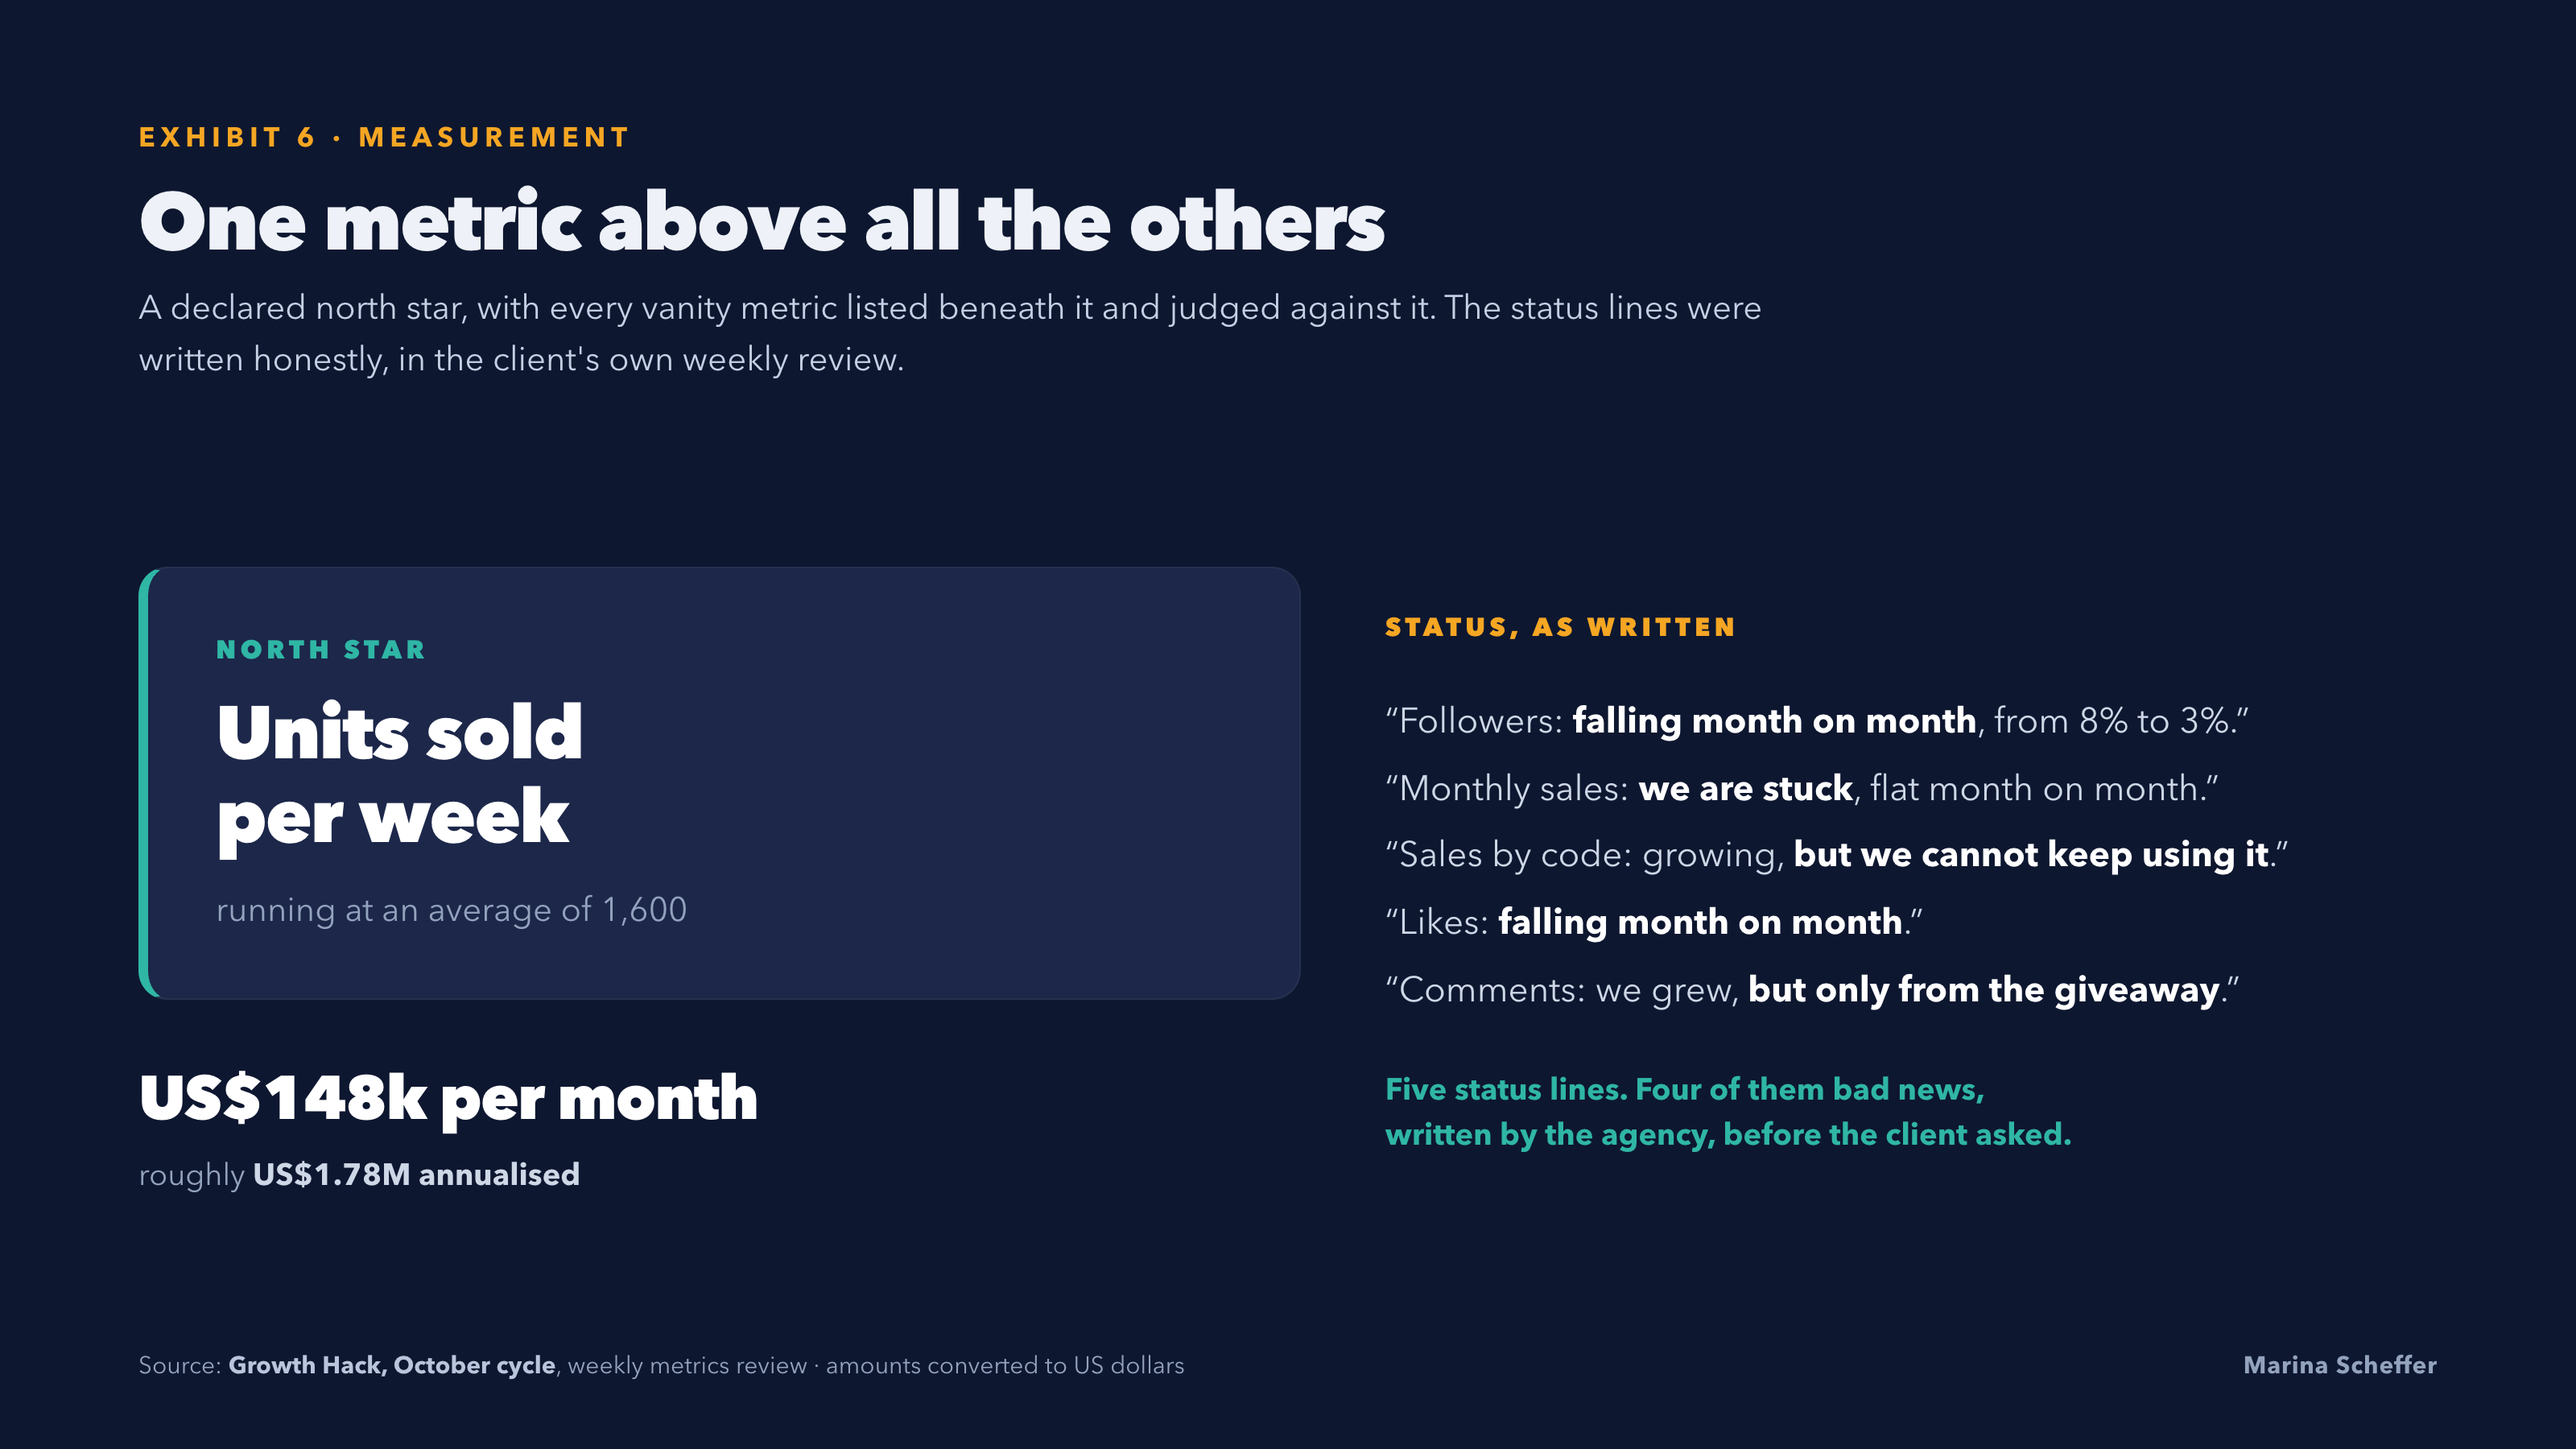
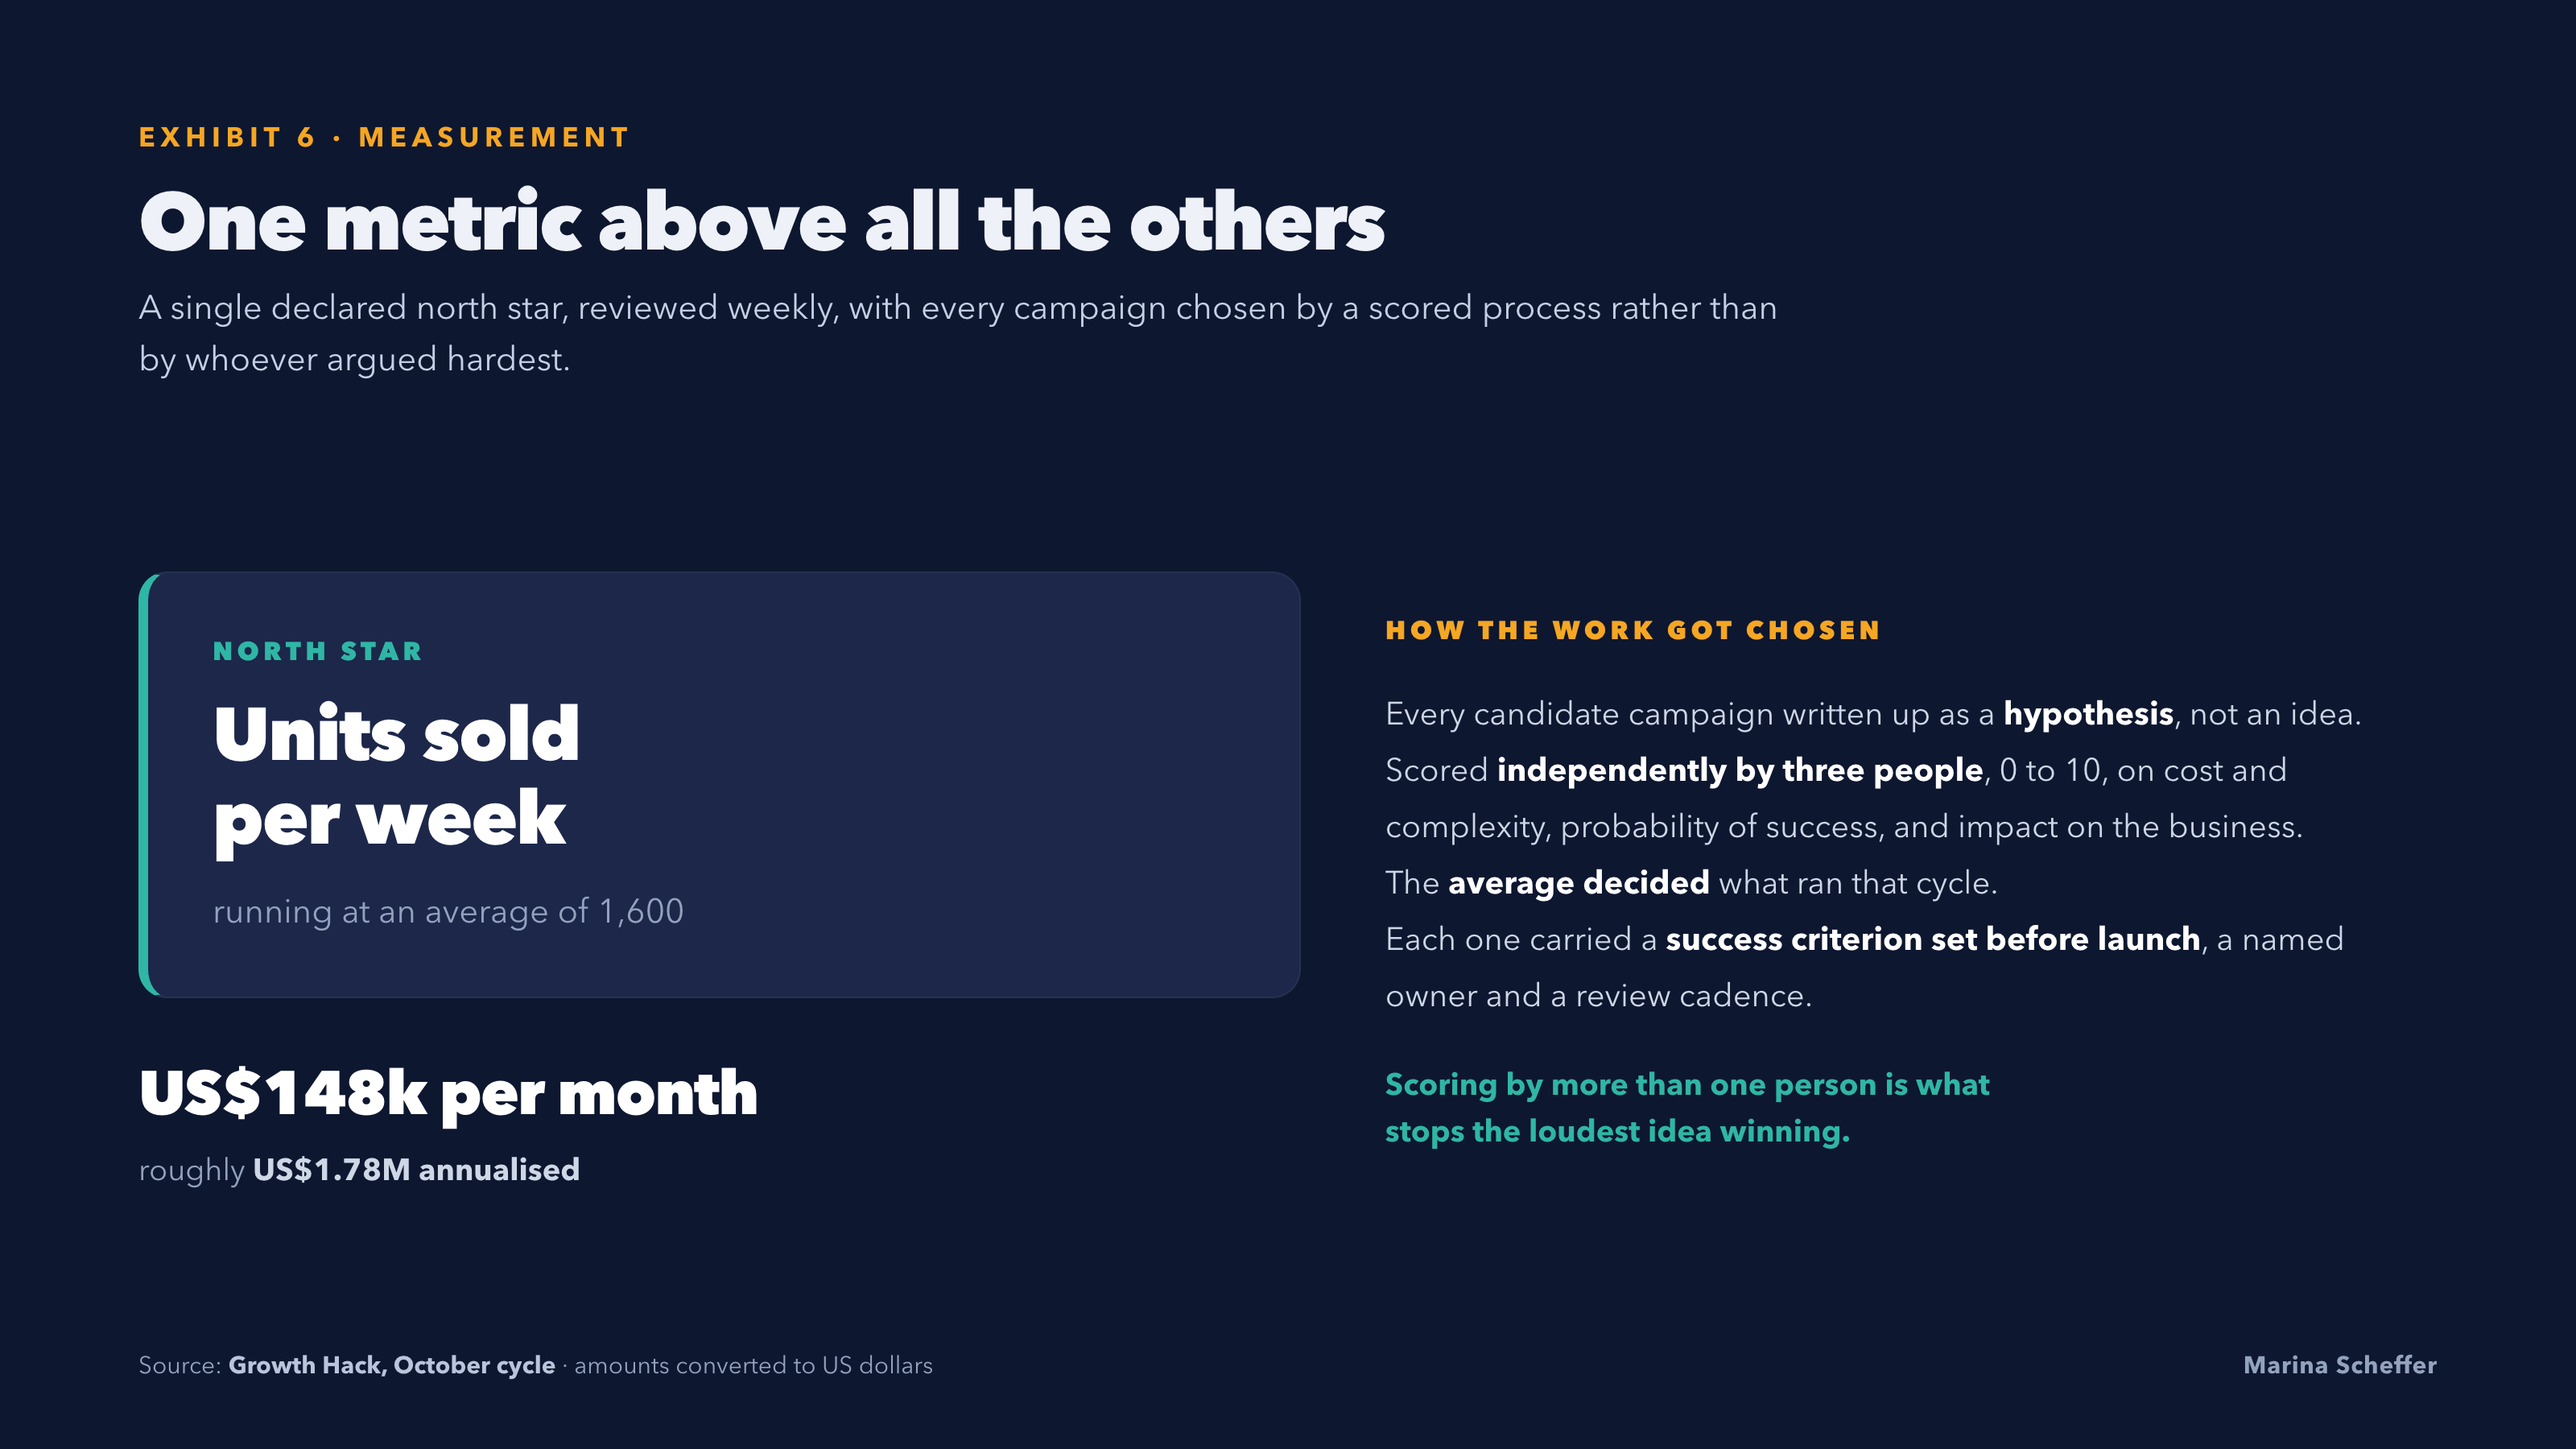
Remove negatively framed data: drop the lessons exhibit, rebuild measurement around the scoring method

diff --git a/healthcare.html b/healthcare.html
@@ -194,36 +194,23 @@
   <div class="wrap">
     <div class="lab"><span class="n">03</span><h2>How decisions got made</h2></div>
     <p class="sub">The reason the numbers moved. Every campaign ran as a scored experiment with a success
-    criterion set before launch.</p>
+    criterion agreed before launch.</p>
 
     <div class="ex">
       <a class="shot" href="img/eclaire/en-06-north-star.png"><img src="img/eclaire/en-06-north-star.png" alt="A declared north star metric with honest status lines beneath it"></a>
       <div class="pair">
-        <p class="cap">A declared north star, <b>units sold per week</b>, with every other metric judged
-        against it. Four of the five status lines are bad news, written before the client asked for them.
-        Candidate experiments were scored independently by three people on cost, probability of success and
-        business impact, and the average decided what ran.</p>
+        <p class="cap">A declared north star, <b>units sold per week</b>, reviewed weekly with every other
+        metric judged against it. Candidate campaigns were written up as hypotheses and scored
+        <b>independently by three people</b> on cost, probability of success and business impact, and the
+        average decided what ran that cycle.</p>
         <figure class="srcdoc">
-          <a href="img/eclaire/src-northstar.png"><img src="img/eclaire/src-northstar.png" alt="Original weekly review slide declaring the north star metric and the status of each other metric"></a>
-          <figcaption>Source documents<span class="fn">Growth Hack, the weekly metrics review that declared the north star</span></figcaption>
-          <a href="img/eclaire/src-sheet-scoring.png" style="margin-top:14px"><img src="img/eclaire/src-sheet-scoring.png" alt="Original scoring spreadsheet, each hypothesis rated by three people on three axes"></a>
-          <figcaption><span class="fn" style="margin-top:0">And the scoring sheet behind it: three reviewers rating every idea 0 to 10 on cost, probability and impact</span></figcaption>
+          <a href="img/eclaire/src-sheet-scoring.png"><img src="img/eclaire/src-sheet-scoring.png" alt="Original scoring spreadsheet, each hypothesis rated by three people on three axes"></a>
+          <figcaption>Source spreadsheet<span class="fn">Growth Hack, hypothesis scoring: three reviewers rating every idea 0 to 10 on cost, probability and impact</span></figcaption>
         </figure>
       </div>
     </div>
 
-    <div class="ex">
-      <a class="shot" href="img/eclaire/en-07-lessons.png"><img src="img/eclaire/en-07-lessons.png" alt="Documented conclusions from closed experiments"></a>
-      <div class="pair">
-        <p class="cap">Written conclusions from closed experiments. Each one retired a tactic that looked
-        strong on an engagement report and did not move revenue.</p>
-        <figure class="srcdoc">
-          <a href="img/eclaire/src-lessons.png"><img src="img/eclaire/src-lessons.png" alt="Original slide listing lessons learned from completed experiments"></a>
-          <figcaption>Source document<span class="fn">Growth Hack, October cycle, lessons recorded at the close of each experiment</span></figcaption>
-        </figure>
       </div>
-    </div>
-  </div>
 </section>
 
 <section style="padding-bottom:0">
